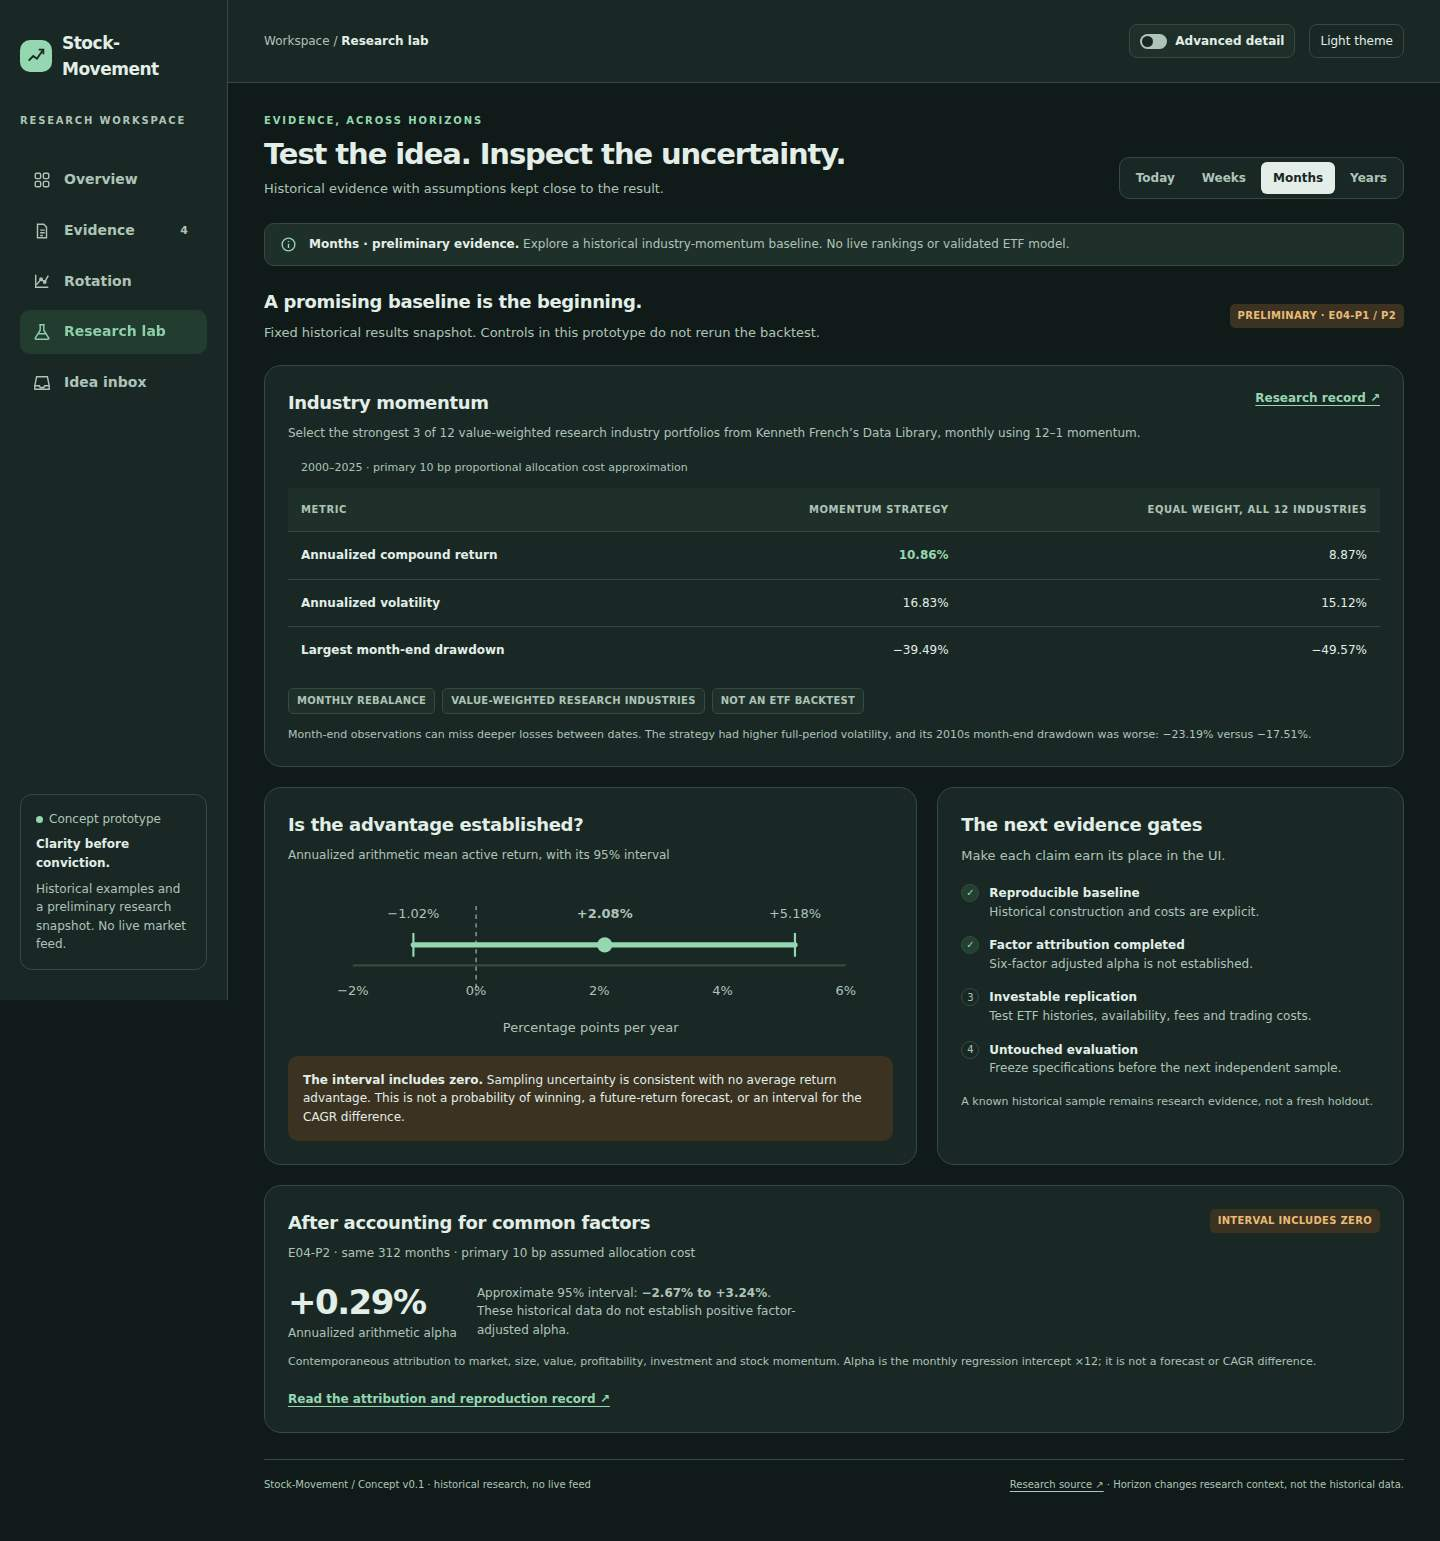
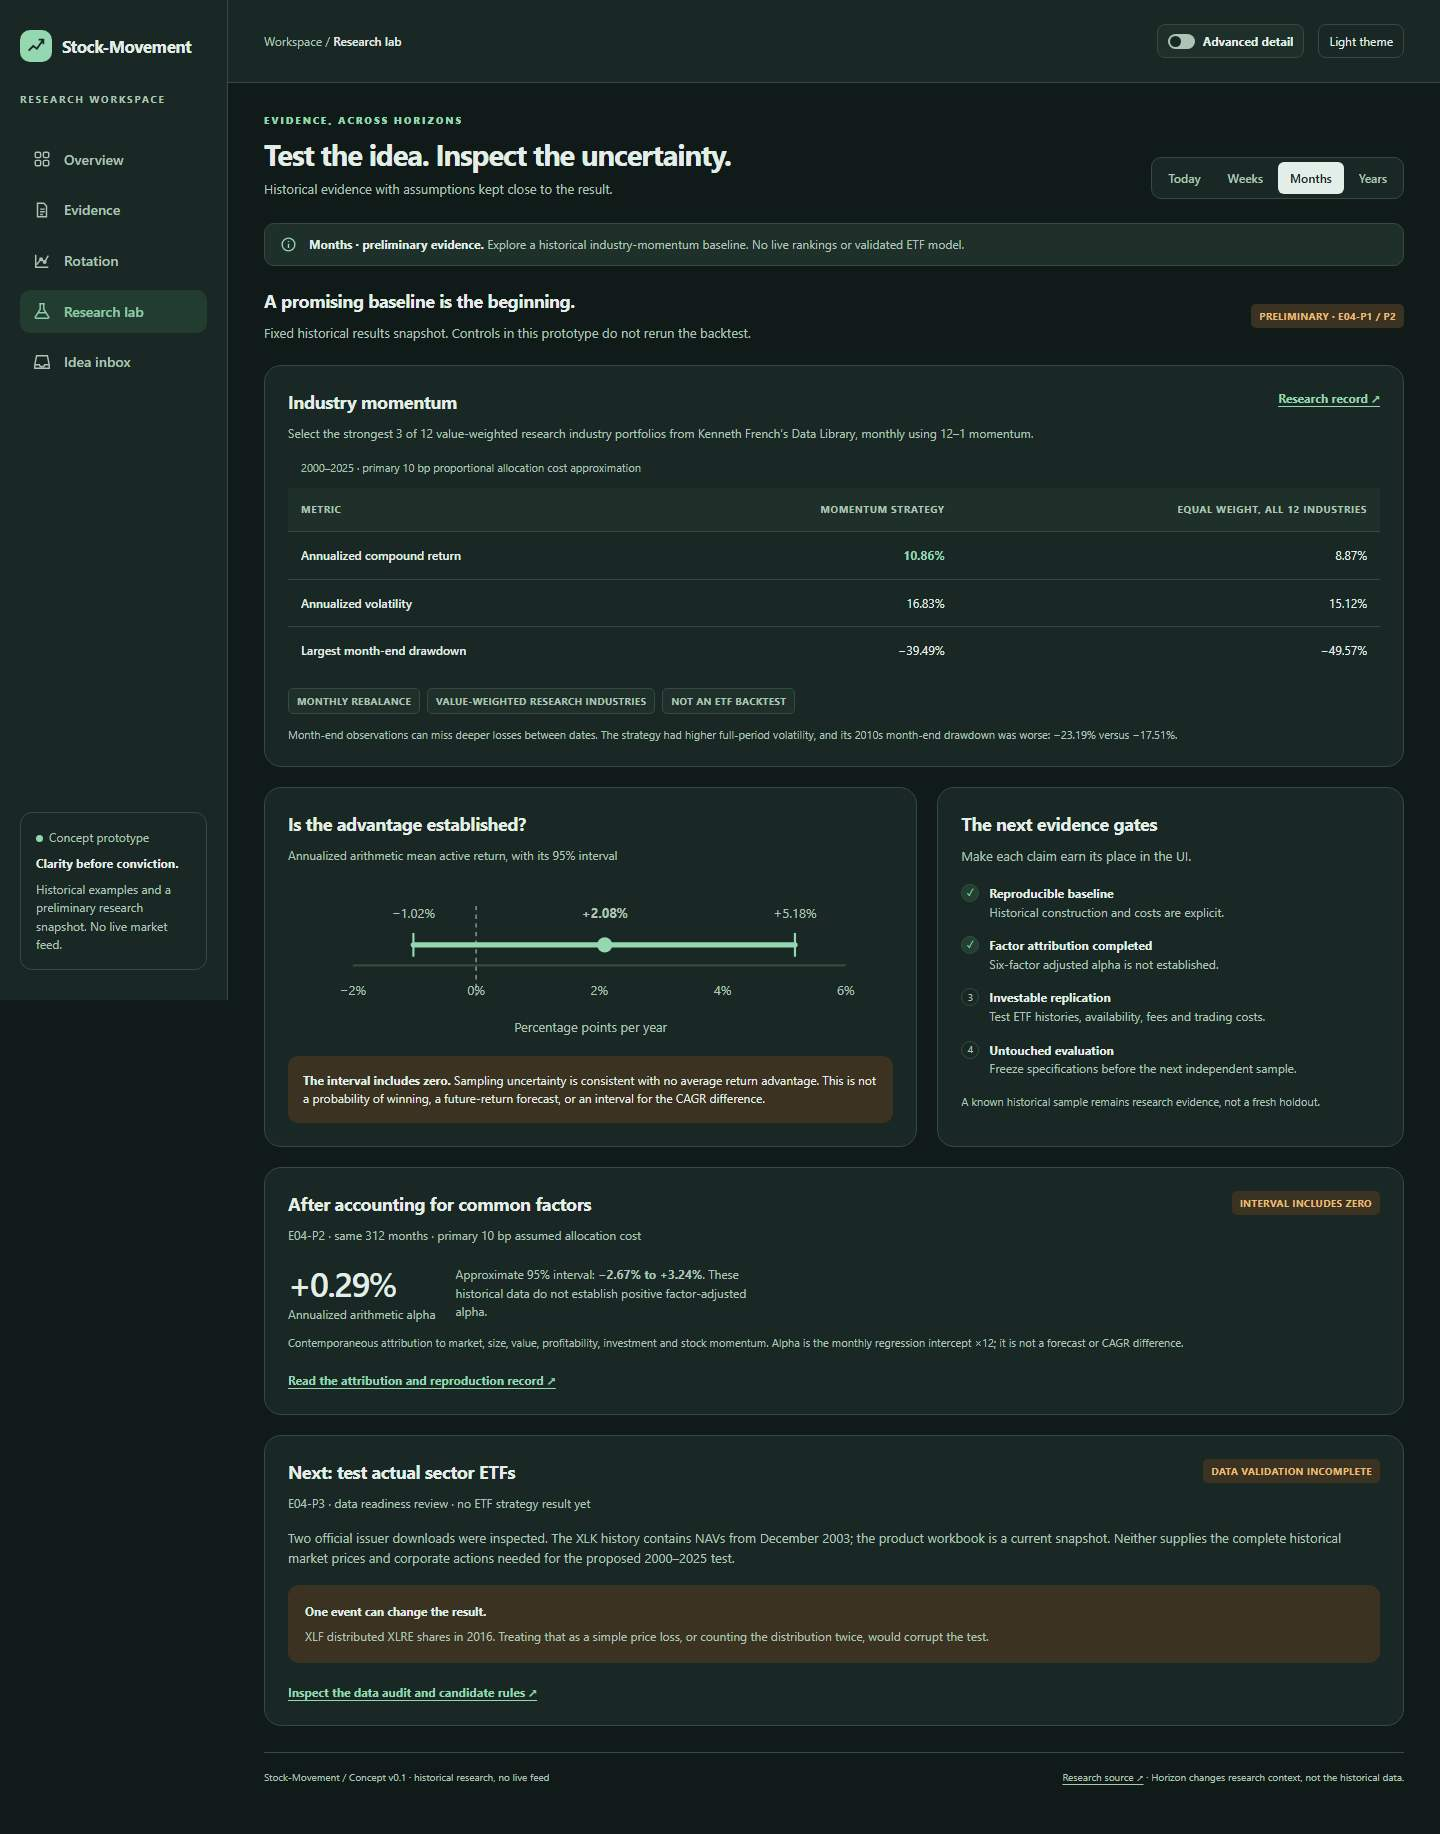
Retain paper-library previews and passing verification records

diff --git a/research/ui/README.md b/research/ui/README.md
@@ -2,7 +2,9 @@
 
 [Download index.html](https://raw.githubusercontent.com/PaulBoyko1/Stock-Movement/codex/research-foundation/research/ui/index.html), save it as an HTML file, and open it in a browser. GitHub's file page shows source code; it does not run the interface. No installation or server is needed.
 
-The concept contains five working views, Today/Weeks/Months/Years research context, simple/advanced detail, light/dark themes, four historical company reports, an illustrative sector map, and a temporary idea preview. It has no live data, forecast service, saved intake or trade execution.
+The concept contains five working views, Today/Weeks/Months/Years research context, simple/advanced detail, light/dark themes, four historical company reports, a searchable library of 27 screened papers, an illustrative sector map, and a temporary idea preview. It has no live data, forecast service, saved intake or trade execution.
+
+Open **Evidence → Research papers** to search findings and test ideas, filter proposed applications, and inspect each claim's limitation and original screening scope. Lab now also exposes the unfinished data validation for the next ETF experiment.
 
 [Design notes](design-notes.md) explain the intended product behavior and remaining decisions.
 
@@ -12,26 +14,35 @@ The concept contains five working views, Today/Weeks/Months/Years research conte
 
 [Sector rotation](previews/rotation-desktop.jpg) · [Research lab in dark mode](previews/lab-dark.jpg) · [Company evidence on mobile](previews/evidence-mobile.jpg)
 
+![Searchable research papers](previews/papers-desktop.jpg)
+
+[Paper library on mobile](previews/papers-mobile.jpg)
+
 ## Checks performed
 
-The [successful browser run](https://github.com/PaulBoyko1/Stock-Movement/actions/runs/35304607841) used Chromium 140.0.7339.16 and Playwright 1.55.0 on code `5add7527c00ca9b1943afb466eb0c328239c4e9e`. Its [machine-readable check record](checks.json) contains 76 named checks, with additional browser assertions for content and control states.
+The [successful browser run](https://github.com/PaulBoyko1/Stock-Movement/actions/runs/35422785098) used Chromium 140.0.7339.16 and Playwright 1.55.0 on code `1c5a4084d49b0652cbdd22f4d22d8f7c7d033482`. Its [machine-readable check record](checks.json) contains 91 named checks, with additional browser assertions for content and control states. Four catalog tests check source provenance, evidence-stage integrity, safe embedding and synchronization with the canonical JSON.
 
 - Navigation, keyboard focus and skip link; all four horizons; simple/advanced switching; both themes.
 - All four company fixtures/source links and sector selections.
+- All 27 papers, search, intersecting filters, empty results, keyboard selection, source-link consistency, and switching back to company reports.
 - Literal-text handling of HTML-looking inbox input, changed-note invalidation, clear, and reload reset.
 - No document overflow at widths 320, 390, 768 and 1440 pixels, across every view with advanced mode both on and off.
 - No JavaScript errors, external network requests or browser storage during the exercised flow.
 
-The first browser run caught a narrow-screen Lab overflow; card sizing and mobile wrapping were corrected before the successful run. Desktop overview, rotation, dark Lab and mobile earnings screenshots were also visually inspected. Eight selected text/status color pairs were checked against their CSS colors ([ratios](contrast-checks.json)); this is not a complete accessibility audit. Other browser engines, real devices and assistive technologies have not been tested.
+The first prototype run caught a narrow-screen Lab overflow; card sizing and mobile wrapping were corrected. The current interface also passed a local Chromium 148.0.7778.96 / Playwright 1.60.0 run. Retained screenshots were captured locally from the exact HTML hash tested in CI; [the manifest](preview-manifest.json) records their hashes and capture environment. Eight selected text/status color pairs were previously checked against their unchanged CSS colors ([ratios](contrast-checks.json)); this is not a complete accessibility audit. Other browser engines, real devices and assistive technologies have not been tested.
 
-Screenshots in this folder are retained with the repository. The Actions artifact (ID 10531167810) expires 2026-10-18T03:49:30Z.
+Screenshots in this folder are retained with the repository. The Actions artifact (ID 10578760438) expires 2026-10-19T05:01:09Z.
 
 To rerun locally:
 
 ```sh
 python -m pip install playwright==1.55.0
 python -m playwright install chromium
+python research/ui/build_catalog.py --check
+python -m unittest discover -s research/ui -p 'test_*.py' -v
 python research/ui/verify_ui.py
 ```
 
 Linux CI also installs Chromium's system dependencies. The script writes screenshots and checks to `work/ui/`; on a failed named check it retains diagnostic output. The statistical research suite is separate: [run instructions](../code/README.md).
+
+After editing `research/evidence-catalog.json`, run `python research/ui/build_catalog.py` to refresh the embedded copy before testing. The downloaded HTML remains self-contained; it does not fetch the JSON at runtime.

diff --git a/README.md b/README.md
@@ -17,7 +17,7 @@ Research and decision support for liquid U.S. stocks and ETFs, with a simple int
 
 The industry baseline and six-factor attribution cover 312 months (2000–2025). At the primary assumed 10 bp allocation cost, factor-adjusted annual arithmetic alpha is approximately 0.29%, with a 95% interval of −2.67% to +3.24%. This does not establish positive alpha or an executable trading edge. The inputs are reconstructed industry research portfolios, not a point-in-time liquid-stock or tradable-ETF universe.
 
-Validation: [33 statistical tests](https://github.com/PaulBoyko1/Stock-Movement/actions/runs/35304302447) and [browser interaction/responsive checks](https://github.com/PaulBoyko1/Stock-Movement/actions/runs/35304607841) passed.
+Validation: [33 statistical tests](https://github.com/PaulBoyko1/Stock-Movement/actions/runs/35422785132), plus [91 browser checks and 4 catalog tests](https://github.com/PaulBoyko1/Stock-Movement/actions/runs/35422785098), passed.
 
 The UI is an offline research prototype. Forecast models, live market data, durable intake storage and automated execution remain future work. Raw future submissions default to private storage; this repository is public.
 
